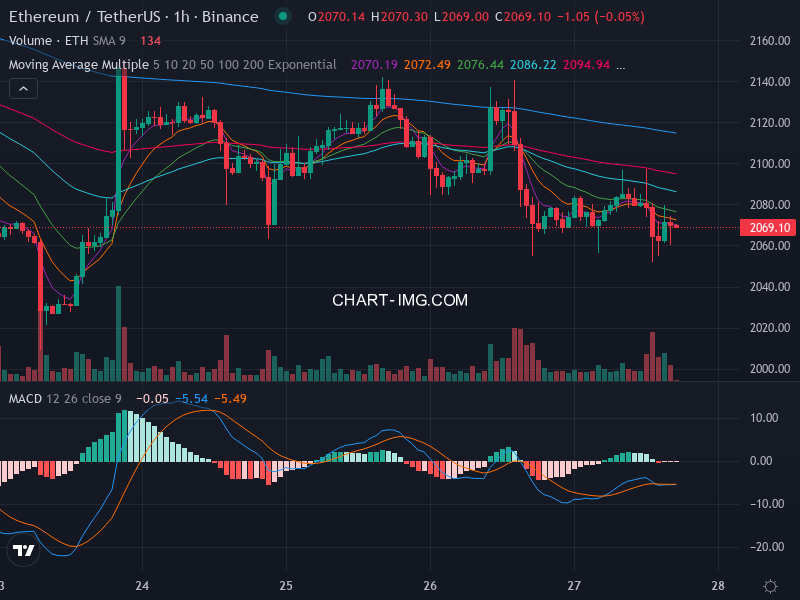
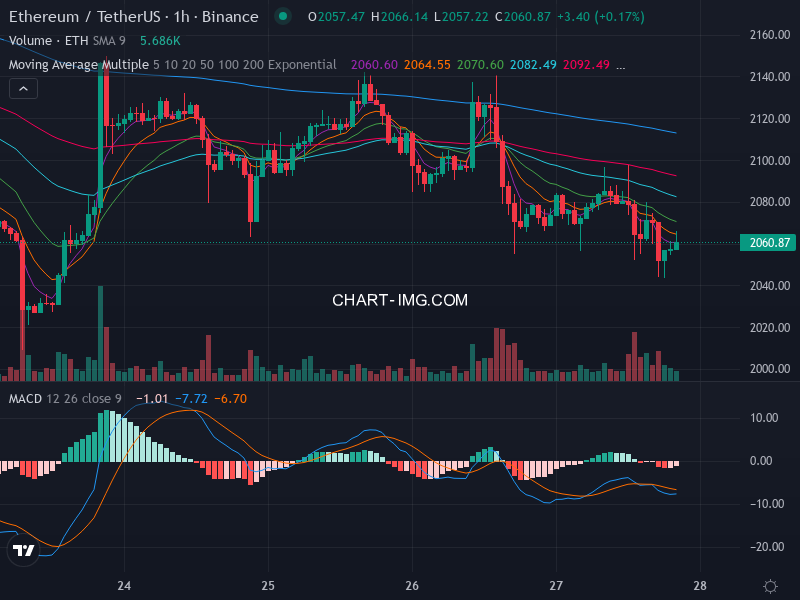
Update chart and timestamp

diff --git a/README.md b/README.md
@@ -5,7 +5,7 @@
 
 ## 最新技術分析圖表 (Latest Analysis)
 ![Latest Chart](latest_chart.png)  
-*Last Analysis: 2026-05-27 17:06:15 UTC*
+*Last Analysis: 2026-05-27 20:40:57 UTC*
 
 ## 主要功能
 - **自動繪圖**: 整合 `chart-img.com` API 繪製包含 EMA 與 MACD 指標的專業線圖（深色主題）。